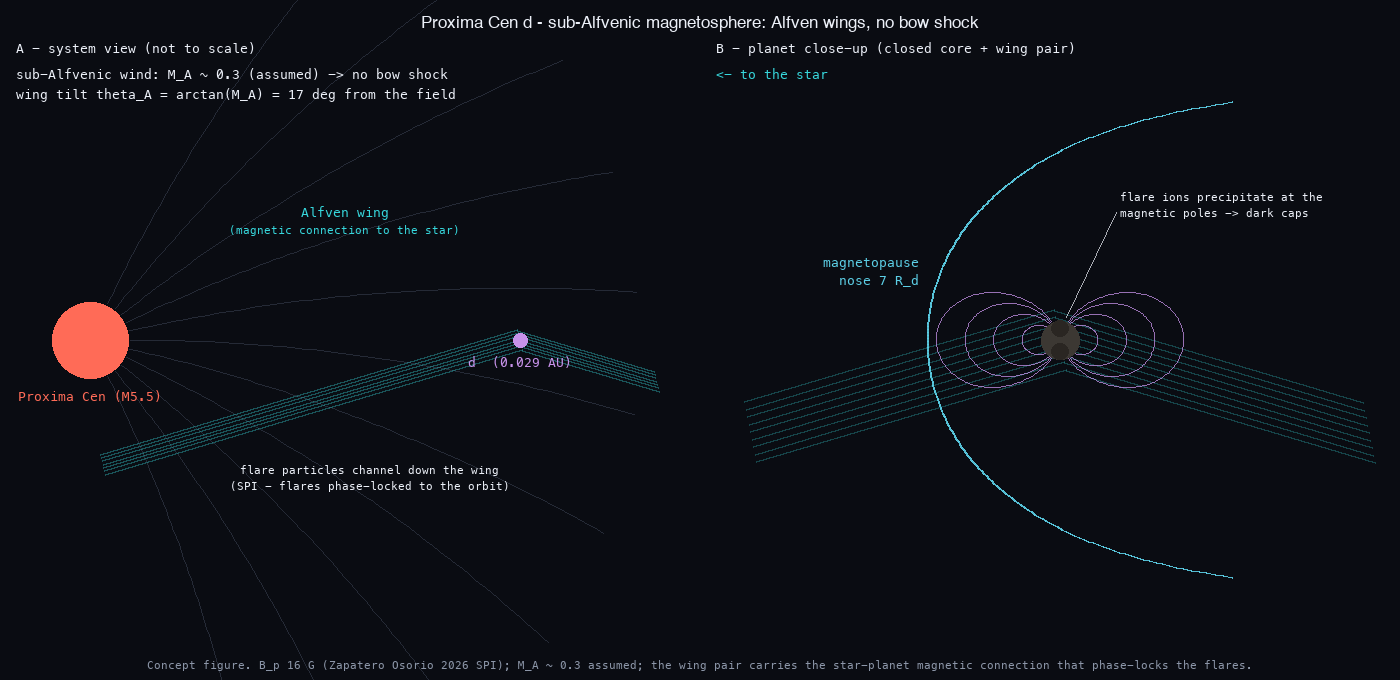
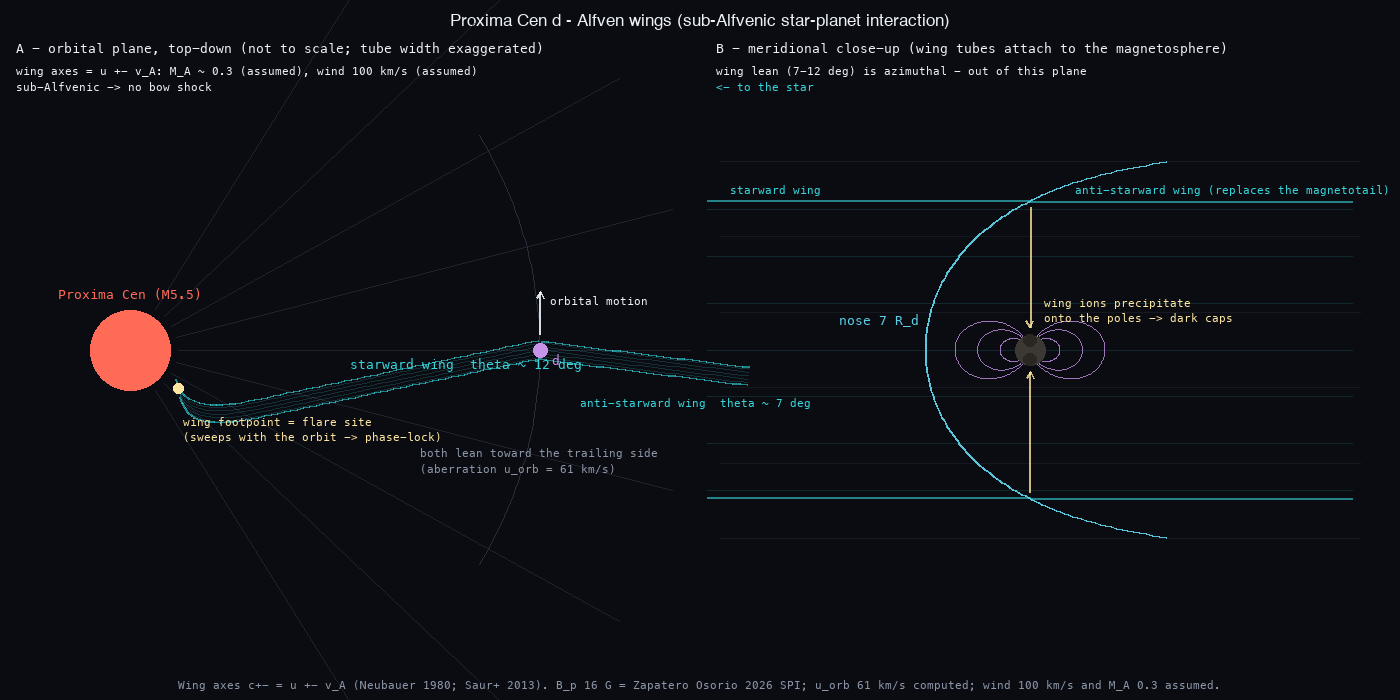
viz: redraw the d Alfven-wing figure on the real characteristics geometry
Owner catch: the first draft drew line bundles through the planet with an
arbitrary tilt. Corrected to Neubauer/Saur physics: wing axes are the Alfven
characteristics u +- v_A, so with a sub-Alfvenic radial field one tube runs
starward and one anti-starward, BOTH leaning toward the orbit's trailing side
by different angles (12 deg starward via u_orb/(v_A - u_wind), 7 deg
anti-starward; u_orb 61 km/s computed, wind 100 km/s and M_A 0.3 stated
assumptions). Wings are now flux tubes of the magnetosphere's cross-section
attached to the obstacle; panel A shows the starward tube bending onto the
stellar surface at the orbit-swept flare footpoint, panel B notes the lean is
azimuthal (out of the meridional plane) and that the anti-starward wing
replaces the magnetotail.

Claude-Session: https://claude.ai/code/session_019Q45nhzQpGTsEB45AVnciR

diff --git a/scripts/viz/render_alfven_wing.py b/scripts/viz/render_alfven_wing.py
@@ -1,14 +1,25 @@
-# Proxima d 알펜 윙(sub-Alfvénic SPI) 개념도 — 시스템 뷰 + 행성 근접 뷰 2패널 PNG (numpy+PIL)
-"""Proxima d Alfven-wing concept figure.
+# Proxima d 알펜 윙(sub-Alfvénic SPI) 물리 기하 도식 — 궤도면 뷰 + 자오면 근접 뷰 (numpy+PIL)
+"""Proxima d Alfven-wing figure, physical geometry (Neubauer 1980; Saur+ 2013).
 
-Physics: at 0.029 AU the M-dwarf wind is plausibly sub-Alfvenic (M_A ~ 0.3
-assumed, extrapolated inward from Proxima-b wind models, Garraffo 2016 family)
--> no bow shock; instead the planet's 16 G field (Zapatero Osorio 2026 SPI)
-connects directly to the star's field lines as a pair of Alfven wings, tilted
-theta_A = arctan(M_A) from the background field. That magnetic connection is
-the channel that phase-locks the star's flares to d's orbit.
+The wing axes are the Alfven characteristics c+- = u +- v_A*bhat: with a
+near-radial stellar field at 0.029 AU and a sub-Alfvenic wind (v_A > u_wind),
+one wing runs starward, the other anti-starward, and BOTH lean toward the
+trailing side of the orbit (the aberration flow u_orb), each by its own angle:
 
-Concept figure: scales exaggerated (planet/magnetosphere), wing tubes schematic.
+    theta_starward  = arctan( u_orb / (v_A - u_wind) )   (leans more)
+    theta_antistar  = arctan( u_orb / (v_A + u_wind) )   (leans less)
+
+Numbers used (assumptions stated on the figure): u_orb = 61 km/s (computed,
+sqrt(GM/a) for 0.122 M_sun at 0.029 AU), u_wind = 100 km/s (assumed slow wind
+inside the Alfven surface), M_A = 0.3 -> v_A = |u|/M_A = 390 km/s
+-> theta_starward ~ 12 deg, theta_antistar ~ 7 deg.
+
+The wings are flux tubes of the obstacle's cross-section (the magnetosphere,
+diameter ~ 2 x 7 R_d), attached to it - not lines through the planet. In this
+regime there is no bow shock, and the "magnetotail" is really the
+anti-starward wing. The starward wing's footpoint on the star is the SPI
+flare site, phase-locked to the orbit.
+
 No matplotlib in this environment: numpy + PIL only.
 Usage: python3 scripts/viz/render_alfven_wing.py [out.png]
 Default output: docs/img/proxima-d-alfven-wing.png
@@ -30,11 +41,16 @@ PAUSE = (92, 207, 230)
 ROCK = (60, 56, 51)
 CAP = (42, 38, 34)
 
-M_A = 0.3
-TH = math.degrees(math.atan(M_A))   # ~17 deg
+# --- physics inputs (figure states which are assumed) ---
+U_ORB = 61.0     # km/s, computed sqrt(GM/a)
+U_WIND = 100.0   # km/s, ASSUMED slow wind inside the Alfven surface
+M_A = 0.3        # ASSUMED
+U_TOT = math.hypot(U_WIND, U_ORB)
+V_A = U_TOT / M_A
+TH_STAR = math.degrees(math.atan(U_ORB / (V_A - U_WIND)))   # ~12 deg
+TH_ANTI = math.degrees(math.atan(U_ORB / (V_A + U_WIND)))   # ~7 deg
 
-W, H = 1400, 680
-PW = 660                            # panel width
+W, H = 1400, 700
 
 
 def fonts():
@@ -48,111 +64,164 @@ def fonts():
 
 
 def aline(dr, pts, color, width=1, alpha=255):
-    c = color + (alpha,)
-    dr.line(pts, fill=c, width=width)
+    dr.line(pts, fill=color + (alpha,), width=width)
 
 
-def panel_system(img, ox, f, fs):
-    """Panel A: star + near-radial field + planet + wing pair (system view)."""
+def arrow(dr, x0, y0, x1, y1, color, width=2, alpha=255, head=7):
+    aline(dr, [(x0, y0), (x1, y1)], color, width, alpha)
+    ang = math.atan2(y1 - y0, x1 - x0)
+    for da in (math.radians(150), -math.radians(150)):
+        dr.line([(x1, y1), (x1 + head * math.cos(ang + da), y1 + head * math.sin(ang + da))],
+                fill=color + (alpha,), width=width)
+
+
+def panel_orbital(img, ox, f, fs):
+    """Panel A: orbital-plane (top-down) view. Star left, planet right,
+    orbital motion up-screen, aberration -> wings lean down-screen (trailing)."""
     dr = ImageDraw.Draw(img, 'RGBA')
-    cx, cy = ox + 90, H // 2        # star center
-    px, py = ox + 520, H // 2       # planet
-    scale = 34.0                    # px per unit
+    sx, sy = ox + 130, H // 2
+    px, py = ox + 540, H // 2
 
-    # near-radial stellar field lines with slight spiral curvature
-    for ang in np.linspace(-64, 64, 11):
+    # orbit arc around the star through the planet
+    R_orb = px - sx
+    pts = [(sx + R_orb * math.cos(a), sy + R_orb * math.sin(a))
+           for a in np.linspace(-0.55, 0.55, 60)]
+    aline(dr, pts, GRID, 1, 220)
+
+    # radial field lines
+    for ang in np.linspace(-58, 58, 9):
         a = math.radians(ang)
-        pts = []
-        for r in np.linspace(1.2, 16.0, 70):
-            curve = 0.010 * (r - 1.2) ** 2
-            x = r * math.cos(a) - curve * math.sin(a)
-            y = r * math.sin(a) + curve * math.cos(a)
-            pts.append((cx + x * scale, cy + y * scale))
-        aline(dr, pts, GRID, 1, 200)
+        aline(dr, [(sx + 48 * math.cos(a), sy + 48 * math.sin(a)),
+                   (sx + 560 * math.cos(a), sy + 560 * math.sin(a))], GRID, 1, 150)
 
-    # Alfven wings: one branch along +B (toward the star), one along -B (away),
-    # both tilted by theta_A into the wind-flow direction
-    th = math.radians(TH)
-    for sgn in (+1, -1):
-        ux, uy = sgn * -math.cos(th), math.sin(th)   # +: toward star / -: away; both lean downstream
-        L = (12.8 if sgn > 0 else 4.2) * scale
-        for off in np.linspace(-10, 10, 7):
-            aline(dr, [(px + off * 0.25, py + off),
-                       (px + ux * L + off * 0.25, py + uy * L + off)],
-                  WING, 2, 90)
+    # --- wings: flux tubes of half-width ~ magnetosphere radius (exaggerated) ---
+    hw = 9  # px half-width (obstacle cross-section, exaggerated for visibility)
 
-    # star on top of wings
-    r_star = 38
-    dr.ellipse([cx - r_star, cy - r_star, cx + r_star, cy + r_star], fill=STAR)
-    dr.text((cx, cy + r_star + 10), "Proxima Cen (M5.5)", fill=STAR, font=f, anchor="ma")
+    def tube(theta_deg, starward, L, taper=1.0):
+        th = math.radians(theta_deg)
+        sgn = -1 if starward else +1
+        ux, uy = sgn * math.cos(th), math.sin(th)     # lean = screen +y (trailing)
+        nx, ny = -uy, ux                              # unit normal
+        p0 = np.array([px, py]); u = np.array([ux, uy]); n = np.array([nx, ny])
+        if starward:
+            # bend the last stretch onto the star (field converges radially)
+            ts = np.linspace(0, 1, 60)
+            path = []
+            for t in ts:
+                p = p0 + u * L * t
+                blend = max(0.0, (t - 0.72) / 0.28) ** 2
+                tostar = np.array([sx, sy]) - p
+                tostar = tostar / np.linalg.norm(tostar)
+                d = (1 - blend) * u + blend * tostar
+                if len(path) == 0:
+                    path.append(p)
+                else:
+                    step = L / len(ts)
+                    path.append(path[-1] + d * step)
+            path = np.array(path)
+        else:
+            path = np.array([p0 + u * L * t for t in np.linspace(0, 1, 30)])
+        for s_off in (-hw, hw):
+            edge = path + n * s_off * taper
+            aline(dr, [tuple(p) for p in edge], WING, 2, 150)
+        # translucent fill via many faint center lines
+        for s_off in np.linspace(-hw + 2, hw - 2, 5):
+            edge = path + n * s_off
+            aline(dr, [tuple(p) for p in edge], WING, 1, 45)
+        return path
 
-    # planet
+    path_s = tube(TH_STAR, True, 395)
+    tube(TH_ANTI, False, 210)
+
+    # star drawn over the wing, footpoint marker where the wing lands
+    r_star = 40
+    dr.ellipse([sx - r_star, sy - r_star, sx + r_star, sy + r_star], fill=STAR)
+    fp = path_s[-1]
+    dr.ellipse([fp[0] - 5, fp[1] - 5, fp[0] + 5, fp[1] + 5], fill=(255, 230, 160))
+    dr.text((sx, sy - r_star - 24), "Proxima Cen (M5.5)", fill=STAR, font=f, anchor="ma")
+    dr.text((fp[0] + 4, fp[1] + 26), "wing footpoint = flare site", fill=(255, 230, 160), font=fs)
+    dr.text((fp[0] + 4, fp[1] + 41), "(sweeps with the orbit -> phase-lock)", fill=(255, 230, 160), font=fs)
+
+    # planet + orbital motion arrow (up-screen)
     dr.ellipse([px - 7, py - 7, px + 7, py + 7], fill=CORE)
-    dr.text((px, py + 14), "d  (0.029 AU)", fill=CORE, font=f, anchor="ma")
+    arrow(dr, px, py - 16, px, py - 58, FG, 2, 230)
+    dr.text((px + 10, py - 56), "orbital motion", fill=FG, font=fs)
+    dr.text((px + 12, py + 2), "d", fill=CORE, font=f)
 
-    dr.text((px - 175, py - 128), "Alfven wing", fill=WING, font=f, anchor="mm")
-    dr.text((px - 175, py - 110), "(magnetic connection to the star)", fill=WING, font=fs, anchor="mm")
-    dr.text((px - 150, py + 130), "flare particles channel down the wing", fill=FG, font=fs, anchor="mm")
-    dr.text((px - 150, py + 146), "(SPI - flares phase-locked to the orbit)", fill=FG, font=fs, anchor="mm")
+    # angle labels
+    dr.text((px - 190, py + 6), f"starward wing  theta ~ {TH_STAR:.0f} deg", fill=WING, font=f)
+    dr.text((px + 40, py + 46), f"anti-starward wing  theta ~ {TH_ANTI:.0f} deg", fill=WING, font=fs)
+    dr.text((px - 120, py + 96), "both lean toward the trailing side", fill=DIM, font=fs)
+    dr.text((px - 120, py + 112), "(aberration u_orb = 61 km/s)", fill=DIM, font=fs)
 
-    dr.text((ox + 16, 66), f"sub-Alfvenic wind: M_A ~ {M_A} (assumed) -> no bow shock", fill=FG, font=f)
-    dr.text((ox + 16, 86), f"wing tilt theta_A = arctan(M_A) = {TH:.0f} deg from the field", fill=FG, font=f)
-    dr.text((ox + 16, 40), "A - system view (not to scale)", fill=FG, font=f)
+    dr.text((ox + 16, 40), "A - orbital plane, top-down (not to scale; tube width exaggerated)",
+            fill=FG, font=f)
+    dr.text((ox + 16, 64),
+            f"wing axes = u +- v_A: M_A ~ {M_A} (assumed), wind {U_WIND:.0f} km/s (assumed)",
+            fill=FG, font=fs)
+    dr.text((ox + 16, 80), "sub-Alfvenic -> no bow shock", fill=FG, font=fs)
 
 
-def panel_closeup(img, ox, f, fs):
-    """Panel B: closed dipole core + Shue magnetopause + wing pair + weathered caps."""
+def panel_meridional(img, ox, f, fs):
+    """Panel B: meridional close-up. Star left; wing tubes attach to the
+    magnetosphere cross-section; wing lean is azimuthal (out of this plane)."""
     dr = ImageDraw.Draw(img, 'RGBA')
-    cx, cy = ox + PW // 2 + 30, H // 2
-    s = 19.0                        # px per R_d
-    to_star = -1                    # star is to the left (-x)
+    cx, cy = ox + 330, H // 2
+    s = 15.0
 
-    # wings first (background): along +/- field (field ~ radial -> horizontal here),
-    # tilted theta_A vertically
-    th = math.radians(TH)
-    for sgn in (+1, -1):
-        ux, uy = sgn * to_star * math.cos(th), math.sin(th)  # one branch starward, one anti-starward
-        L = 17 * s
-        for off in np.linspace(-30, 30, 9):
-            aline(dr, [(cx + off * 0.2, cy + off),
-                       (cx + ux * L + off * 0.2, cy + uy * L + off)],
-                  WING, 2, 70)
+    flank = 7.0 * math.sqrt(2.0)   # Shue r at t=90deg ~ 9.9 R_d
 
-    # closed dipole field lines r = L cos^2(lambda)
-    for Lsh in (2.0, 3.5, 5.0, 6.5):
+    # wing tubes: attached at the obstacle, spanning its cross-section
+    for x0, x1, label, lx in ((0, -21.5, "starward wing", -20.0),
+                              (0, 21.5, "anti-starward wing (replaces the magnetotail)", 3.0)):
+        top = cy - flank * s
+        bot = cy + flank * s
+        # edges
+        aline(dr, [(cx + x0 * s, top), (cx + x1 * s, top)], WING, 2, 150)
+        aline(dr, [(cx + x0 * s, bot), (cx + x1 * s, bot)], WING, 2, 150)
+        for yy in np.linspace(top + 8, bot - 8, 7):
+            aline(dr, [(cx + x0 * s, yy), (cx + x1 * s, yy)], WING, 1, 35)
+        dr.text((cx + lx * s, top - 18), label, fill=WING, font=fs)
+
+    # background field lines through the region (radial ~ horizontal)
+    for yy in np.linspace(cy - flank * s - 40, cy + flank * s + 40, 6):
+        aline(dr, [(ox + 20, yy), (ox + 660, yy)], GRID, 1, 90)
+
+    # magnetopause (Shue, nose 7 R_d toward the star = left)
+    pts = []
+    for t in np.linspace(-2.2, 2.2, 200):
+        r = 7.0 * (2.0 / (1.0 + math.cos(t))) ** 0.5
+        pts.append((cx - r * math.cos(t) * s, cy + r * math.sin(t) * s))
+    aline(dr, pts, PAUSE, 2, 235)
+    dr.text((cx - 7.4 * s, cy - 30), "nose 7 R_d", fill=PAUSE, font=f, anchor="rm")
+
+    # closed dipole core
+    for Lsh in (2.0, 3.5, 5.0):
         for mirror in (1, -1):
-            pts = []
+            pp = []
             for lam in np.linspace(-math.pi / 2, math.pi / 2, 160):
                 r = Lsh * math.cos(lam) ** 2
                 if r < 1.0:
                     continue
-                x = mirror * r * math.cos(lam)
-                y = r * math.sin(lam)
-                pts.append((cx + x * s, cy + y * s))
-            if len(pts) > 1:
-                aline(dr, pts, CORE, 1, 190)
+                pp.append((cx + mirror * r * math.cos(lam) * s, cy + r * math.sin(lam) * s))
+            if len(pp) > 1:
+                aline(dr, pp, CORE, 1, 200)
 
-    # magnetopause: Shue-like r = R0*(2/(1+cos t))^0.5, nose 7 R_d toward star
-    pts = []
-    for t in np.linspace(-2.2, 2.2, 200):
-        r = 7.0 * (2.0 / (1.0 + math.cos(t))) ** 0.5
-        pts.append((cx + to_star * r * math.cos(t) * s, cy + r * math.sin(t) * s))
-    aline(dr, pts, PAUSE, 2, 230)
-    dr.text((cx + to_star * 7 * s - 8, cy - 78), "magnetopause", fill=PAUSE, font=f, anchor="rm")
-    dr.text((cx + to_star * 7 * s - 8, cy - 60), "nose 7 R_d", fill=PAUSE, font=f, anchor="rm")
-
-    # planet + weathered magnetic-pole caps
+    # planet + weathered caps + precipitation arrows along polar field
     r_p = s
     dr.ellipse([cx - r_p, cy - r_p, cx + r_p, cy + r_p], fill=ROCK)
     for sgn in (+1, -1):
         yy = cy + sgn * 0.62 * s
-        dr.ellipse([cx - 0.45 * s, yy - 0.42 * s, cx + 0.45 * s, yy + 0.42 * s], fill=CAP)
-    dr.text((cx + 60, cy - 150), "flare ions precipitate at the", fill=FG, font=fs)
-    dr.text((cx + 60, cy - 134), "magnetic poles -> dark caps", fill=FG, font=fs)
-    aline(dr, [(cx + 56, cy - 128), (cx + 6, cy - 0.95 * s - 4)], FG, 1, 180)
+        dr.ellipse([cx - 0.45 * s, yy - 0.4 * s, cx + 0.45 * s, yy + 0.4 * s], fill=CAP)
+        arrow(dr, cx, cy + sgn * (flank * s - 6), cx, cy + sgn * 1.5 * s, (255, 230, 160), 2, 200)
+    dr.text((cx + 14, cy - 3.6 * s), "wing ions precipitate", fill=(255, 230, 160), font=fs)
+    dr.text((cx + 14, cy - 3.6 * s + 15), "onto the poles -> dark caps", fill=(255, 230, 160), font=fs)
 
-    dr.text((ox + 16, 40), "B - planet close-up (closed core + wing pair)", fill=FG, font=f)
-    dr.text((ox + 16, 66), "<- to the star", fill=WING, font=f)
+    dr.text((ox + 16, 40), "B - meridional close-up (wing tubes attach to the magnetosphere)",
+            fill=FG, font=f)
+    dr.text((ox + 16, 64), f"wing lean ({TH_ANTI:.0f}-{TH_STAR:.0f} deg) is azimuthal - out of this plane",
+            fill=FG, font=fs)
+    dr.text((ox + 16, 80), "<- to the star", fill=WING, font=fs)
 
 
 def main(out=None):
@@ -161,13 +230,13 @@ def main(out=None):
     img = Image.new('RGB', (W, H), BG)
     f, fs, fb = fonts()
     dr = ImageDraw.Draw(img)
-    dr.text((W // 2, 14), "Proxima Cen d - sub-Alfvenic magnetosphere: Alfven wings, no bow shock",
+    dr.text((W // 2, 12), "Proxima Cen d - Alfven wings (sub-Alfvenic star-planet interaction)",
             fill=FG, font=fb, anchor="ma")
-    panel_system(img, 0, f, fs)
-    panel_closeup(img, 700, f, fs)
+    panel_orbital(img, 0, f, fs)
+    panel_meridional(img, 700, f, fs)
     dr.text((W // 2, H - 22),
-            "Concept figure. B_p 16 G (Zapatero Osorio 2026 SPI); M_A ~ 0.3 assumed; "
-            "the wing pair carries the star-planet magnetic connection that phase-locks the flares.",
+            "Wing axes c+- = u +- v_A (Neubauer 1980; Saur+ 2013). B_p 16 G = Zapatero Osorio 2026 SPI; "
+            "u_orb 61 km/s computed; wind 100 km/s and M_A 0.3 assumed.",
             fill=DIM, font=fs, anchor="ma")
     img.save(out)
     print('wrote', os.path.abspath(out))
